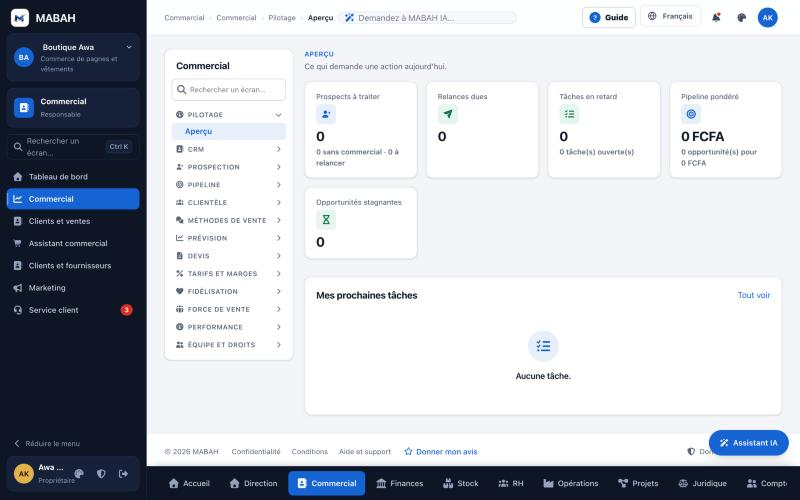
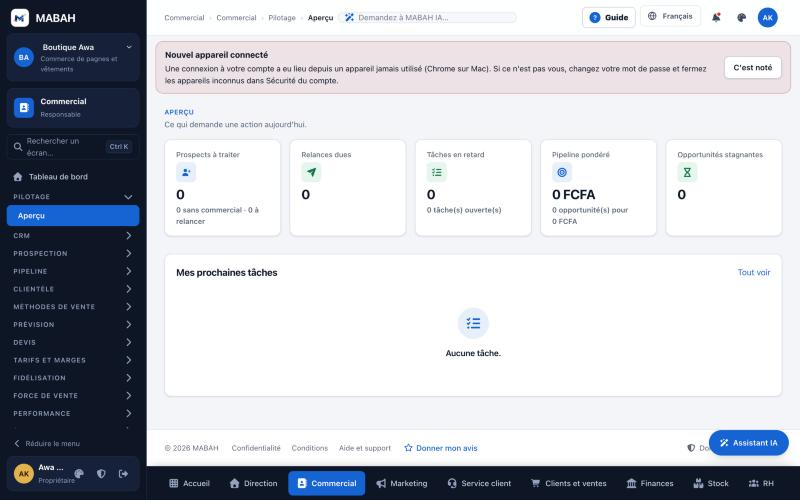
Navigation : un seul menu latéral par espace (rubriques du module intégrées, une rubrique repliable par groupe)
Le panneau intérieur des modules est masqué en mode espaces ; ses rubriques (Pilotage, CRM, Prospection…) s'affichent dans le menu latéral. Espace à plusieurs modules : un lien par module, rubriques sous le module affiché. Captures mises à jour.

diff --git a/src/ws/spaces/SpaceFrame.jsx b/src/ws/spaces/SpaceFrame.jsx
@@ -7,7 +7,7 @@ import { rq, API_BASE } from '../../lib/api.js';
 import { usePrefs } from '../../lib/prefs.js';
 import { MODULE_ICONS } from '../registry.js';
 import { BrandMark } from '../shell/Frame.jsx';
-import { openPalette } from '../shell/screens.js';
+import { openPalette, useScreens } from '../shell/screens.js';
 import { useWs } from '../WsContext.jsx';
 import { Empty, Loading, useLoad } from '../ui.jsx';
 
@@ -54,8 +54,30 @@ export function SpaceSidebar({ cur, curMod, orgId, orgs, info, user, initials, o
   const t = useT();
   const p = usePrefs();
   const brand = p.brand[orgId];
+  const sc = useScreens();
+  const [fold, setFold] = useState({}); // rubriques repliées / dépliées à la main (clé = module:rubrique)
   const mods = cur ? cur.modules.filter((m) => m.id !== 'dashboard') : [];
   const hasDash = cur && cur.modules.some((m) => m.id === 'dashboard');
+  const inSpace = new Set(cur ? cur.modules.map((m) => m.id) : []);
+  // Rubriques de l'écran affiché (publiées par le cadre du module) ; un renvoi vers un module d'un AUTRE espace n'est pas proposé ici.
+  const rubs = (sc.groups || []).map((g) => ({ ...g, items: g.items.filter((i) => !i.to || inSpace.has(i.to)) })).filter((g) => g.items.length);
+  const single = mods.length === 1;
+  const pickScreen = (id) => { if (sc.pick) sc.pick(id); if (onClose) onClose(); };
+  const rubrics = (m) => rubs.map((g) => {
+    const key = `${m.id}:${g.id}`;
+    const has = g.items.some((i) => i.id === sc.active);
+    const open = key in fold ? fold[key] : has;
+    return (
+      <li key={g.id} className="sp-grp">
+        <button type="button" className="sp-gh" aria-expanded={open} onClick={() => setFold({ ...fold, [key]: !open })}>
+          <span className="nl">{g.label}</span><Icon name={open ? 'down' : 'right'} />
+        </button>
+        {open ? <ul>{g.items.map((i) => (
+          <li key={i.id} className="app-li"><button type="button" className={'sp-it' + (i.id === sc.active && !i.to ? ' on' : '')} aria-current={i.id === sc.active ? 'page' : undefined} onClick={() => pickScreen(i.id)}><span className="nl">{i.label}</span></button></li>
+        ))}</ul> : null}
+      </li>
+    );
+  });
   const item = (m) => {
     const n = badgeOf(m.id);
     return (
@@ -64,6 +86,16 @@ export function SpaceSidebar({ cur, curMod, orgId, orgs, info, user, initials, o
           <Icon name={MODULE_ICONS[m.id] || m.id} fixedWidth /><span className="nl">{t(m.title)}</span>
           {n ? <span className="nbadge">{n}</span> : null}
         </Link>
+      </li>
+    );
+  };
+  // Un seul module dans l'espace : ses rubriques (Pilotage, CRM, Prospection…) directement dans le menu. Plusieurs : un groupe repliable par module.
+  const moduleBlock = (m) => {
+    const here = m.id === curMod && rubs.length > 0;
+    if (single) return here ? rubrics(m) : item(m);
+    return (
+      <li key={m.id} className="sp-mod">
+        <ul>{item(m)}{here ? <li><ul className="sp-subs">{rubrics(m)}</ul></li> : null}</ul>
       </li>
     );
   };
@@ -97,7 +129,7 @@ export function SpaceSidebar({ cur, curMod, orgId, orgs, info, user, initials, o
             <li className="app-li"><Link to={`/app/${orgId}/home/${cur.id}`} className={curMod === 'home' ? 'on' : ''} aria-current={curMod === 'home' ? 'page' : undefined} title={mini ? t('Tableau de bord') : undefined}><Icon name="house" fixedWidth /><span className="nl">{t('Tableau de bord')}</span></Link></li>
           ) : null}
           {hasDash ? item(cur.modules.find((m) => m.id === 'dashboard')) : null}
-          {mods.map(item)}
+          {mods.map(moduleBlock)}
         </ul>
       </nav>
       <div className="app-side-f">

diff --git a/src/styles/ws-spaces.css b/src/styles/ws-spaces.css
@@ -36,6 +36,20 @@ body.has-dock .ws-fab{bottom:calc(var(--touch) + var(--sp-2) * 2 + 20px)}
 @media (max-width:767px) and (orientation:landscape){.sp-dock{--bottom-nav-h:48px}.sp-dock-a{flex-direction:row;gap:6px;font-size:12px}}
 @media print{.sp-dock{display:none!important}}
 
+/* Rubriques du module dans le menu latéral (le panneau intérieur du module est alors masqué : un seul menu). */
+body.sp-merged .msh-nav,body.sp-merged .msh-burger{display:none!important}
+body.sp-merged .msh-body{grid-template-columns:minmax(0,1fr)}
+.sp-side .sp-grp>ul,.sp-side .sp-mod ul,.sp-side .sp-subs{list-style:none;margin:0;padding:0;display:grid;gap:2px}
+.sp-gh{display:flex;align-items:center;gap:var(--sp-2);width:100%;min-height:var(--ctl-h-sm,36px);padding:0 var(--sp-3);border:0;border-radius:var(--radius-md);background:transparent;color:var(--nav-muted);font:var(--fw-semibold) var(--fs-xs)/1 var(--font);letter-spacing:.08em;text-transform:uppercase;text-align:left;cursor:pointer}
+.sp-gh:hover{background:var(--nav-bg-2);color:#fff}
+.sp-gh .ui-ico{font-size:11px}
+.app-li>.sp-it{flex:1;display:flex;align-items:center;gap:var(--sp-3);min-height:var(--ctl-h);padding:0 var(--sp-3) 0 var(--sp-5);border:0;border-radius:var(--radius-md);background:transparent;text-align:left;font:var(--fw-medium) var(--fs-md)/1.2 var(--font);color:var(--nav-text);cursor:pointer}
+.app-li>.sp-it:hover{background:var(--nav-bg-2);color:#fff}
+.app-li>.sp-it.on{background:var(--nav-active);color:var(--nav-on-active);font-weight:var(--fw-semibold)}
+.sp-subs{padding-left:var(--sp-3)!important}
+body.nav-mini .sp-gh .nl,body.nav-mini .sp-it .nl,body.nav-mini .sp-gh{display:none}
+@media (max-width:1099px){body.nav-mini .sp-gh,body.nav-mini .sp-gh .nl,body.nav-mini .sp-it .nl{display:revert}body.nav-mini .sp-gh{display:flex}}
+
 /* Bandeau « consultation seule » */
 .sp-banner{display:flex;align-items:center;gap:var(--sp-3);flex-wrap:wrap;margin:0 0 var(--sp-4);padding:var(--sp-3) var(--sp-4);border-radius:var(--radius-lg);background:var(--warn-soft);color:var(--warn-text);border:1px solid color-mix(in srgb,var(--warn) 45%,transparent)}
 .sp-banner p{margin:0;flex:1 1 220px;font-size:var(--fs-md)}

diff --git a/src/ws/ModuleShell.jsx b/src/ws/ModuleShell.jsx
@@ -30,19 +30,19 @@ export default function ModuleShell({ title, groups, active, onSelect, actions, 
   }, [active]); // eslint-disable-line react-hooks/exhaustive-deps
 
   const flat = useMemo(() => groups.flatMap((g) => g.items.map((i) => ({ ...i, group: g.label }))), [groups]);
-  useEffect(() => { publishScreens({ title, items: flat, active, onSelect }); }, [title, flat, active, onSelect]);
-  useEffect(() => () => publishScreens({ title: '', items: [], active: null, onSelect: null }), []);
+  useEffect(() => { publishScreens({ title, items: flat, groups, active, onSelect, pick }); }, [title, flat, groups, active, onSelect]); // eslint-disable-line react-hooks/exhaustive-deps
+  useEffect(() => () => publishScreens({ title: '', items: [], groups: [], active: null, onSelect: null, pick: null }), []);
   const found = useMemo(() => {
     const s = q.trim().toLowerCase();
     return s ? flat.filter((i) => (i.label + ' ' + (i.hint || '') + ' ' + i.group).toLowerCase().includes(s)) : [];
   }, [q, flat]);
   const cur = flat.find((i) => i.id === active) || flat[0];
 
-  const pick = (id) => {
+  function pick(id) {
     setQ(''); setDrawer(false);
     const it = flat.find((x) => x.id === id);
     if (it && it.to) navigate(`/app/${orgId}/${it.to}`); else onSelect(id);
-  };
+  }
   const toggle = (id) => setOpen((s) => { const n = new Set(s); if (n.has(id)) n.delete(id); else n.add(id); return n; });
 
   return (

diff --git a/src/ws/Workspace.jsx b/src/ws/Workspace.jsx
@@ -120,6 +120,7 @@ function Shell() {
   useEffect(() => { if (sr && sr.cur) { setLastSpace(sr.cur.id); saveLastSpace(orgId, info.me.userId, sr.cur.id); } }, [sr && sr.cur && sr.cur.id]); // eslint-disable-line react-hooks/exhaustive-deps
   // Le dernier espace ouvert est mémorisé côté serveur (d'un appareil à l'autre) quand la personne ouvre l'accueil d'un espace.
   useEffect(() => { if (spaces && route && route.mod === 'home' && sr.cur && spaces.last !== sr.cur.id) ws.oapi('PUT', '/spaces/last', { space: sr.cur.id }).catch(() => {}); }, [spaces && route && route.mod === 'home' ? route.sub : '']); // eslint-disable-line react-hooks/exhaustive-deps
+  useEffect(() => { if (!spaces) return undefined; document.body.classList.add('sp-merged'); return () => document.body.classList.remove('sp-merged'); }, [Boolean(spaces)]); // eslint-disable-line react-hooks/exhaustive-deps
   const visitor = Boolean(sr && sr.visitor);
   useEffect(() => { ws.setReadOnly(visitor); return () => ws.setReadOnly(false); }, [visitor]); // eslint-disable-line react-hooks/exhaustive-deps
 

diff --git a/src/ws/shell/screens.js b/src/ws/shell/screens.js
@@ -1,6 +1,6 @@
 import { useSyncExternalStore } from 'react';
 /* Écrans du module affiché (publiés par ModuleShell) : alimentent le fil d'Ariane de l'en-tête et la recherche Ctrl K globale. */
-let cur = { title: '', items: [], active: null, onSelect: null, go: null };
+let cur = { title: '', items: [], groups: [], active: null, onSelect: null, pick: null, go: null };
 const subs = new Set();
 export function publishScreens(v) { cur = v; subs.forEach((f) => f()); }
 export function useScreens() { return useSyncExternalStore((f) => { subs.add(f); return () => subs.delete(f); }, () => cur); }

diff --git a/docs/espaces-par-role.md b/docs/espaces-par-role.md
@@ -5,7 +5,9 @@ Le fonctionnement complet (droits, niveaux, routes serveur) est décrit dans `do
 ## Navigation (pied de page des espaces)
 
 - **Les espaces sont en bas de l'écran** : barre `SpaceDock` (`src/ws/spaces/SpaceFrame.jsx`), sous la zone de contenu et le pied de page légal, collée en bas. Une entrée par espace de la personne (icône + libellé court : Direction, Commercial, Finances, Stock, RH, Opérations, Projets, Juridique, Compte), l'espace actif en surbrillance (`aria-current="page"`), un petit œil pour un espace en consultation seule. En tête : **Accueil** (icône grille) = écran de choix de l'espace (`/app/<org>/espaces`).
-- **Le menu latéral n'affiche que l'espace choisi** : sa carte (nom + niveau), « Tableau de bord » de l'espace, puis les modules de cet espace (la liste vient de `info.spaces.spaces[].modules`, déjà renvoyée par `GET /api/ws/orgs/:id` : aucun changement serveur). Plus de section « Mon espace » générale ni de grille « Mes espaces ». Le panneau intérieur (rubriques et sous-écrans) est inchangé.
+- **Le menu latéral n'affiche que l'espace choisi** : sa carte (nom + niveau), « Tableau de bord » de l'espace, puis le contenu de l'espace (la liste vient de `info.spaces.spaces[].modules`, déjà renvoyée par `GET /api/ws/orgs/:id` : aucun changement serveur, aucun module masqué par du code en dur). Plus de section « Mon espace » générale ni de grille « Mes espaces ».
+- **Un seul menu** : le panneau blanc intérieur des modules est masqué en mode espaces (`body.sp-merged`) ; ses rubriques sont publiées par `ModuleShell` (`publishScreens({ groups, pick })`) et affichées dans le menu latéral. Espace à **un seul module** (ex. Commercial) : directement Pilotage › Aperçu, CRM, Prospection, Pipeline… (rubriques repliables). Espace à **plusieurs modules** (ex. Finances) : un lien par module, et sous le module affiché ses rubriques. Les renvois vers un module d'un autre espace ne sont pas proposés. Les rubriques d'un module n'existent qu'une fois le module ouvert (elles viennent du module lui-même).
+- Menu réduit (icônes seules, grand écran) : les rubriques sont masquées, seuls les modules restent.
 - **Adresses** : cliquer un espace ouvre `/app/<org>/home/<espace>` (le bouton retour du navigateur fonctionne) ; ouvrir directement `/app/<org>/<module>` sélectionne l'espace qui contient ce module.
 - **Mémoire** : le dernier espace est retenu par personne et par entreprise dans `localStorage` (`mabah-nav:space:<org>:<utilisateur>`, protégé par try/catch), en plus de la mémoire serveur ; il sert à l'ouverture de `/app`.
 - **Téléphone (≤ 767 px)** : la même barre est fixe en bas, défilable à l'horizontale (l'espace actif reste centré), avec « Assistant IA » et « Menu » à droite ; le menu latéral reste un tiroir.
